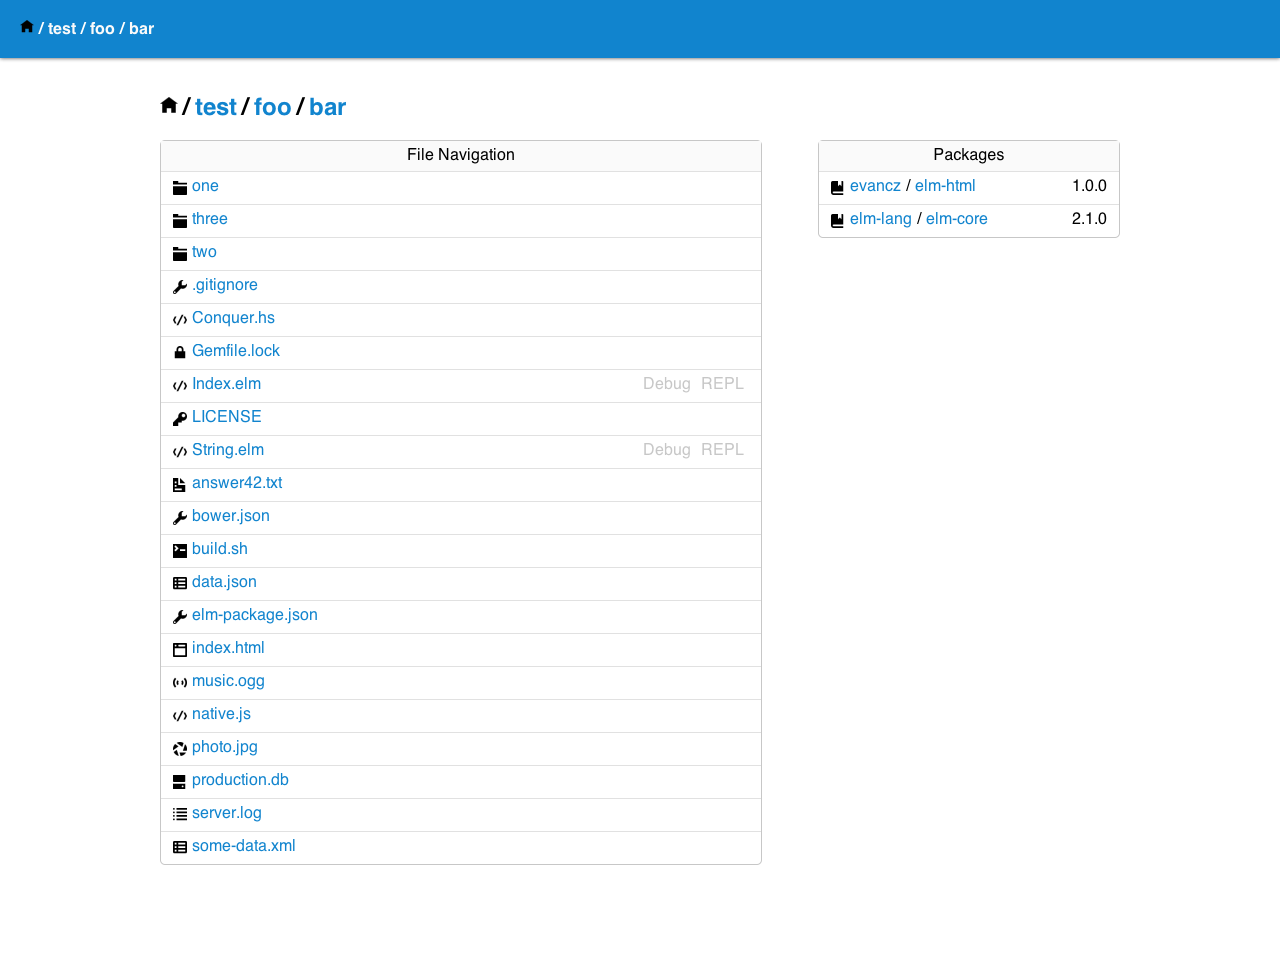
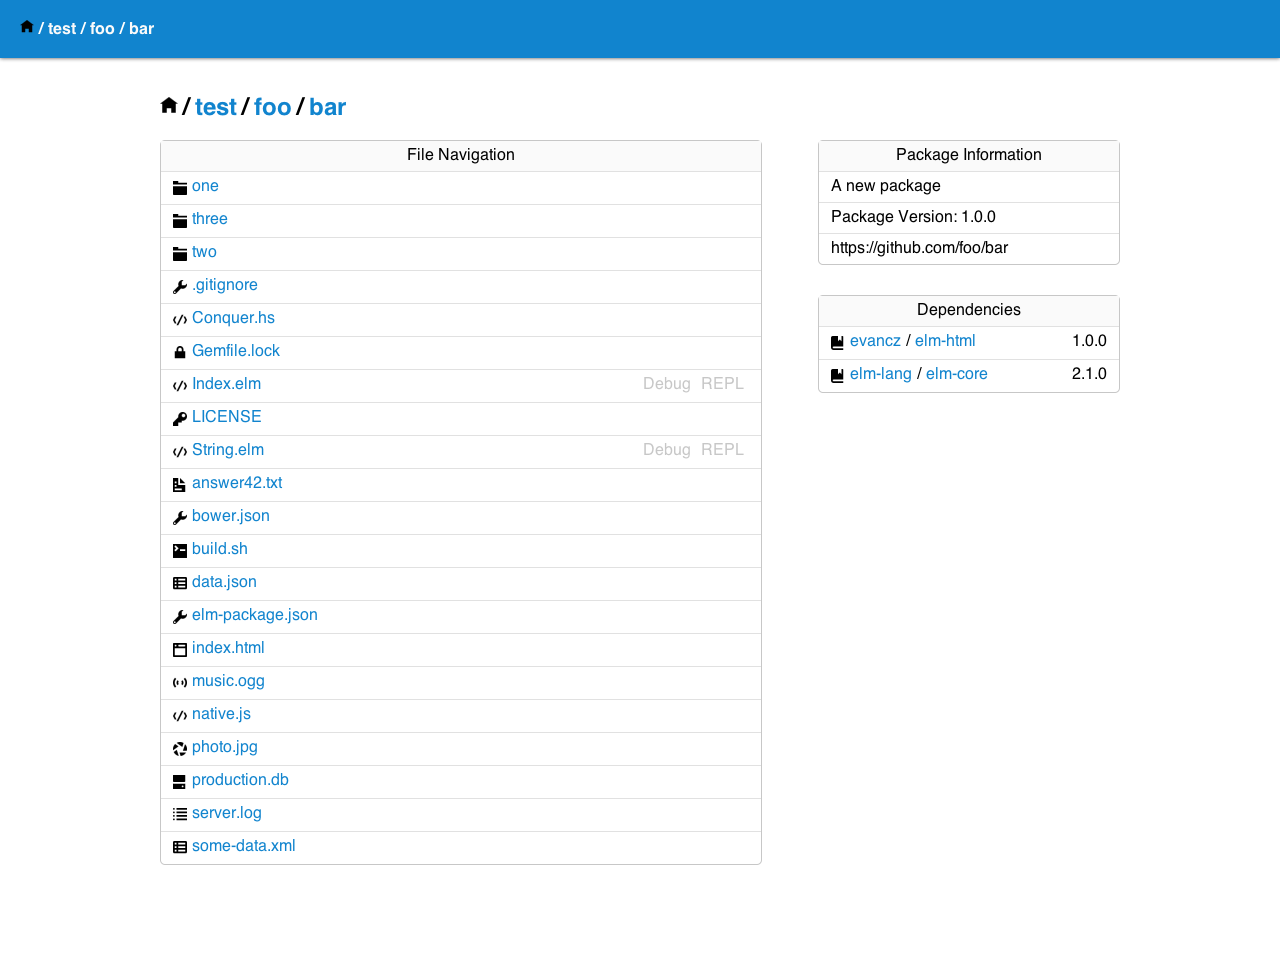
Made package view work
Changed the Structure of dependencies to be contained in package. This way it'll be closer to the structure of the elm-package.json config file.
Found a runtime bug. Working around it has enabled me to get the package view to work.
Updated Screenshot accordingly.

diff --git a/sass/index.scss b/sass/index.scss
@@ -4,6 +4,8 @@ $light-grey: #fafafa;
 $blue: rgb(17, 132, 206);
 $dark-grey: darken($light-grey, 70%);
 $grey: darken($light-grey, 20%);
+$smallisch-box: 300px;
+$largeisch-box: 600px;
 
 
 body {
@@ -48,16 +50,16 @@ a {
   margin-right: auto;
 }
 
-.package-separator, .path-separator {
+.dependency-separator, .path-separator {
   display: inline-block;
   margin: 0 5px;
 }
 
-.package-name {
+.dependency-name {
   width: 70%;
 }
 
-.package-versions {
+.dependency-versions {
   width: 30%;
 }
 
@@ -113,14 +115,20 @@ a {
 
 .folder.view {
   @extend .box;
-  width: 600px;
+  width: $largeisch-box;
 }
 
-.packages.view {
+.dependencies.view {
   @extend .box;
-  width: 300px;
+  width: $smallisch-box;
 
 }
+
+.package.view {
+  width: $smallisch-box;
+  margin-bottom: 30px;
+}
+
 
 .left {
   float: left;

diff --git a/_data.js b/_data.js
@@ -26,23 +26,23 @@
       "server.log",
       "build.sh"
     ],
-    dependencies: [
-      {
-        name : "elm-html",
-        account : "evancz",
-        version : "1.0.0"
-      },
-      {
-        name : "elm-core",
-        account : "elm-lang",
-        version : "2.1.0"
-      }
-    ],
-    package: {
+    currpackage: {
       version: "1.0.0",
       repository: "https://github.com/foo/bar",
       license: "BSD3",
-      summary: "A new package"
+      summary: "A new package",
+      dependencies: [
+        {
+          name : "elm-html",
+          account : "evancz",
+          version : "1.0.0"
+        },
+        {
+          name : "elm-core",
+          account : "elm-lang",
+          version : "2.1.0"
+        }
+      ]
     }
   }
 })();
